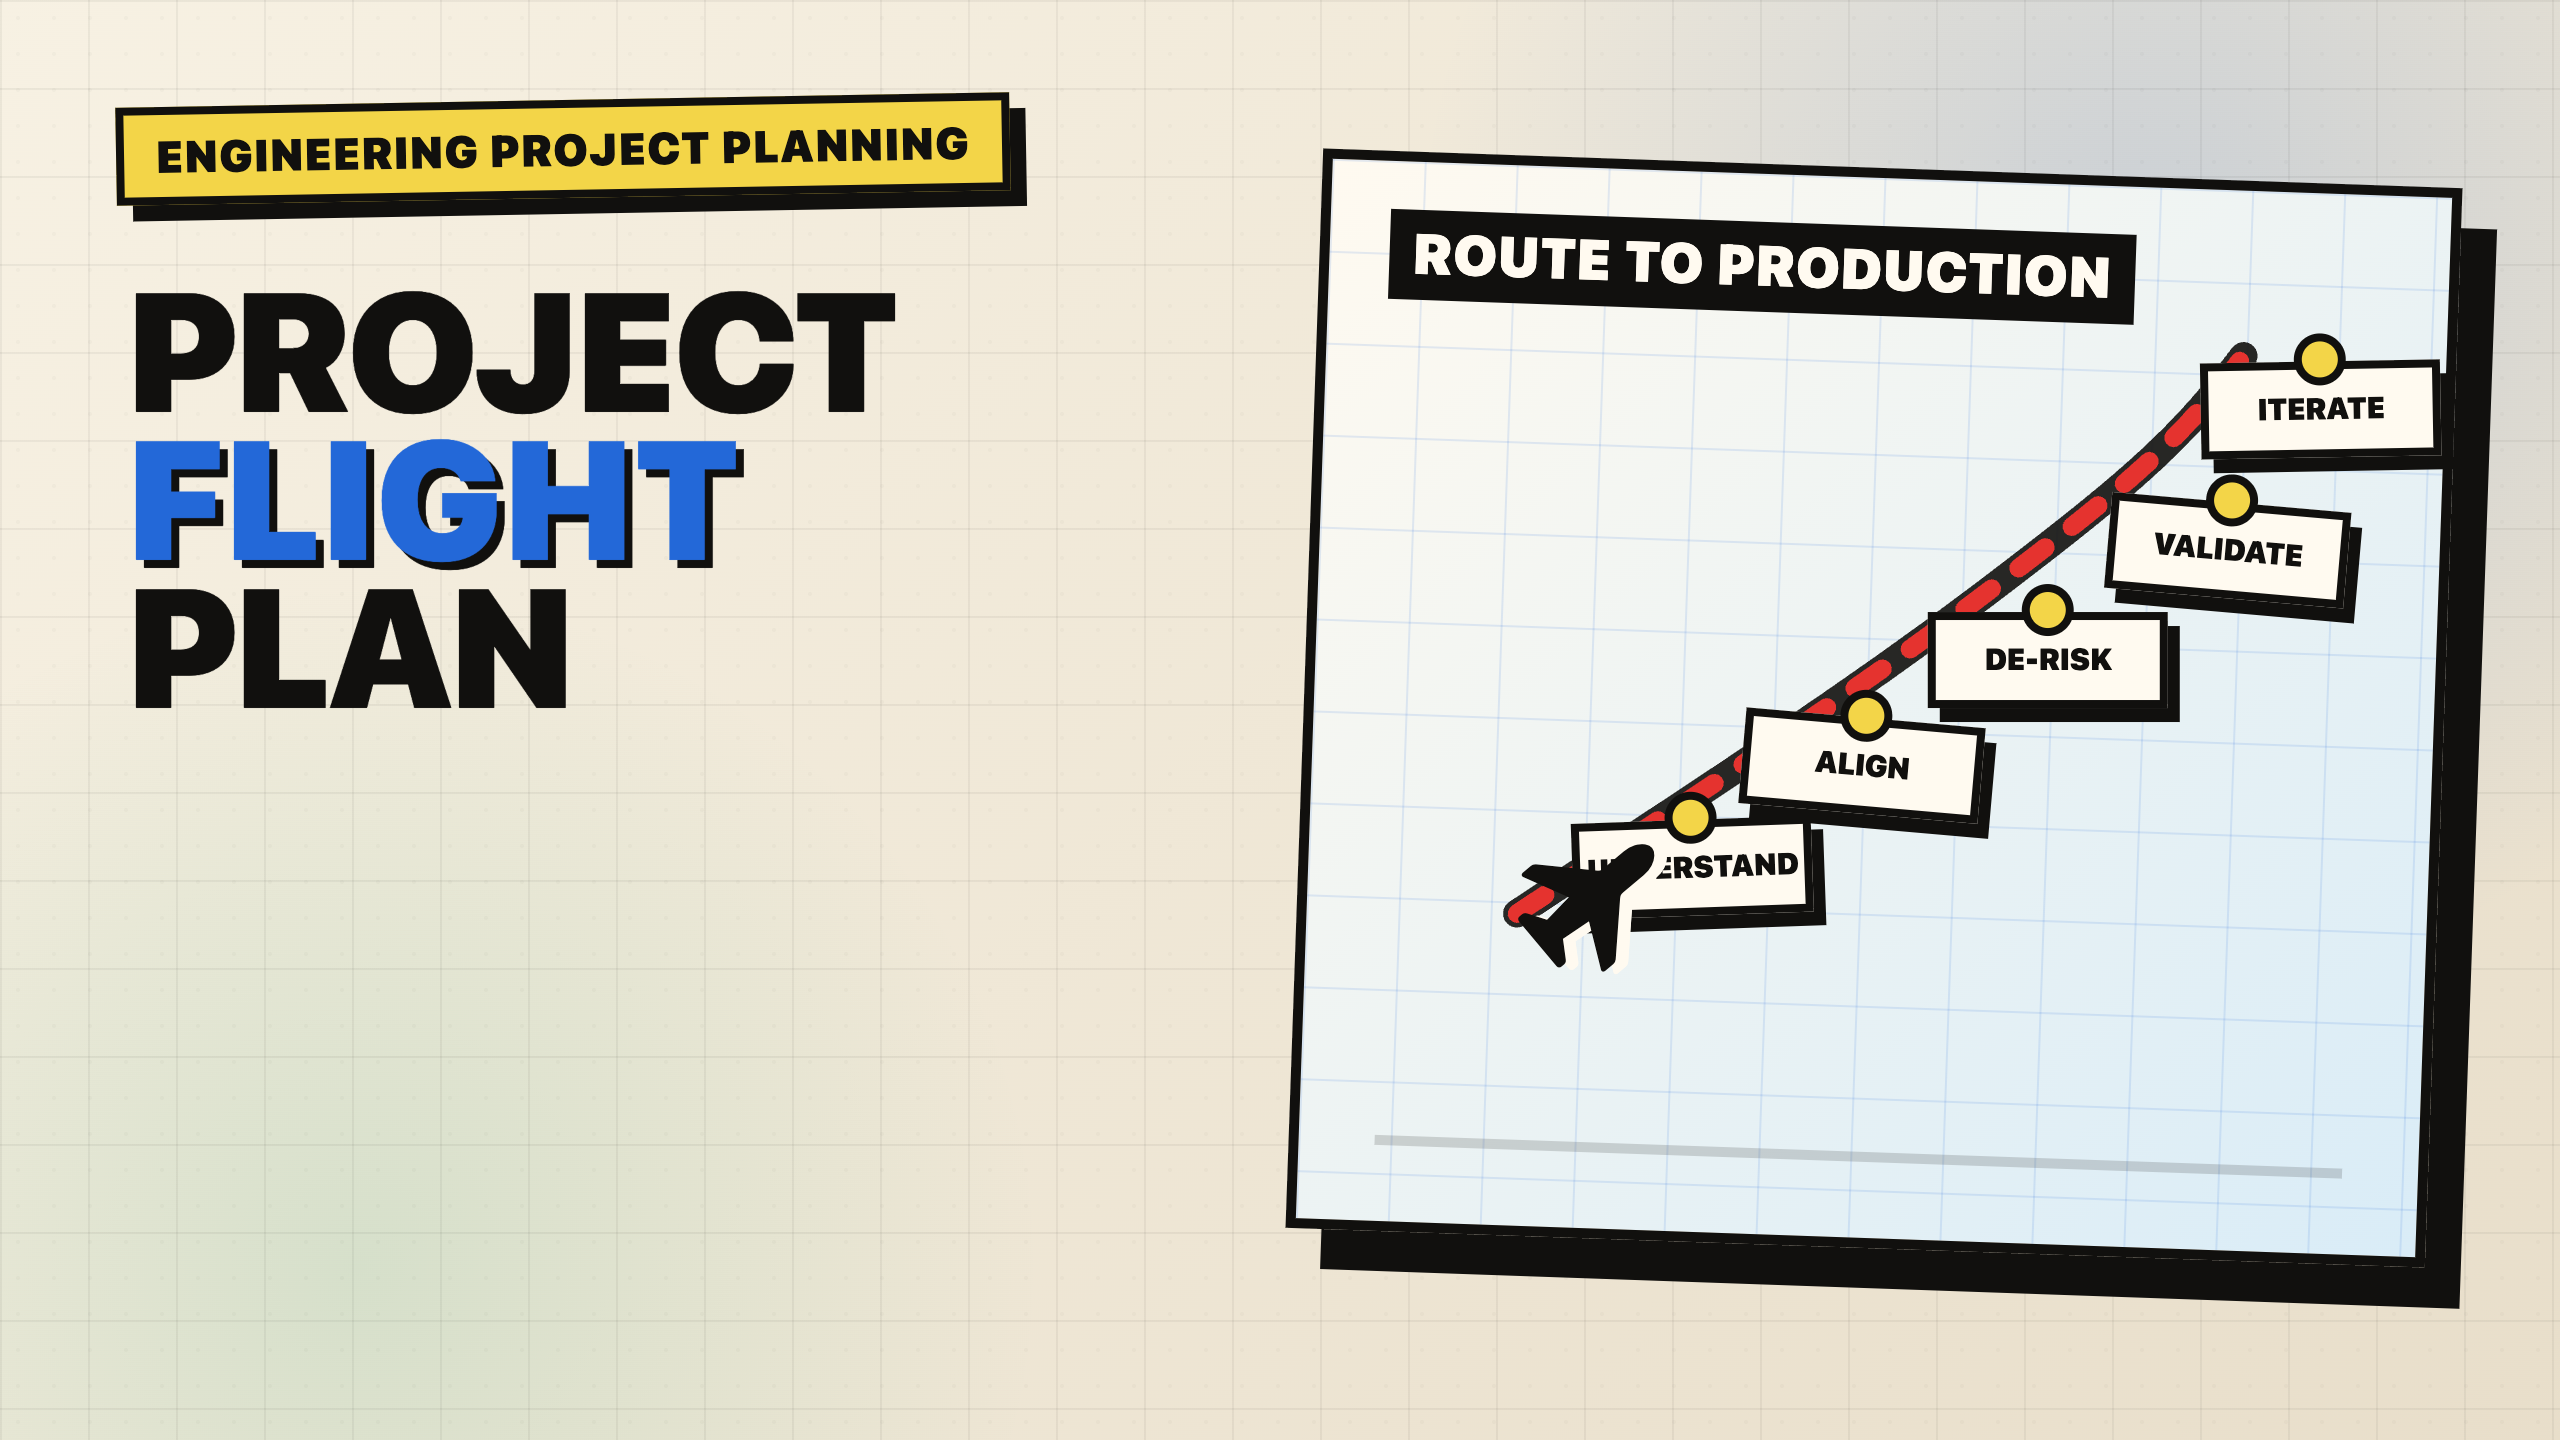
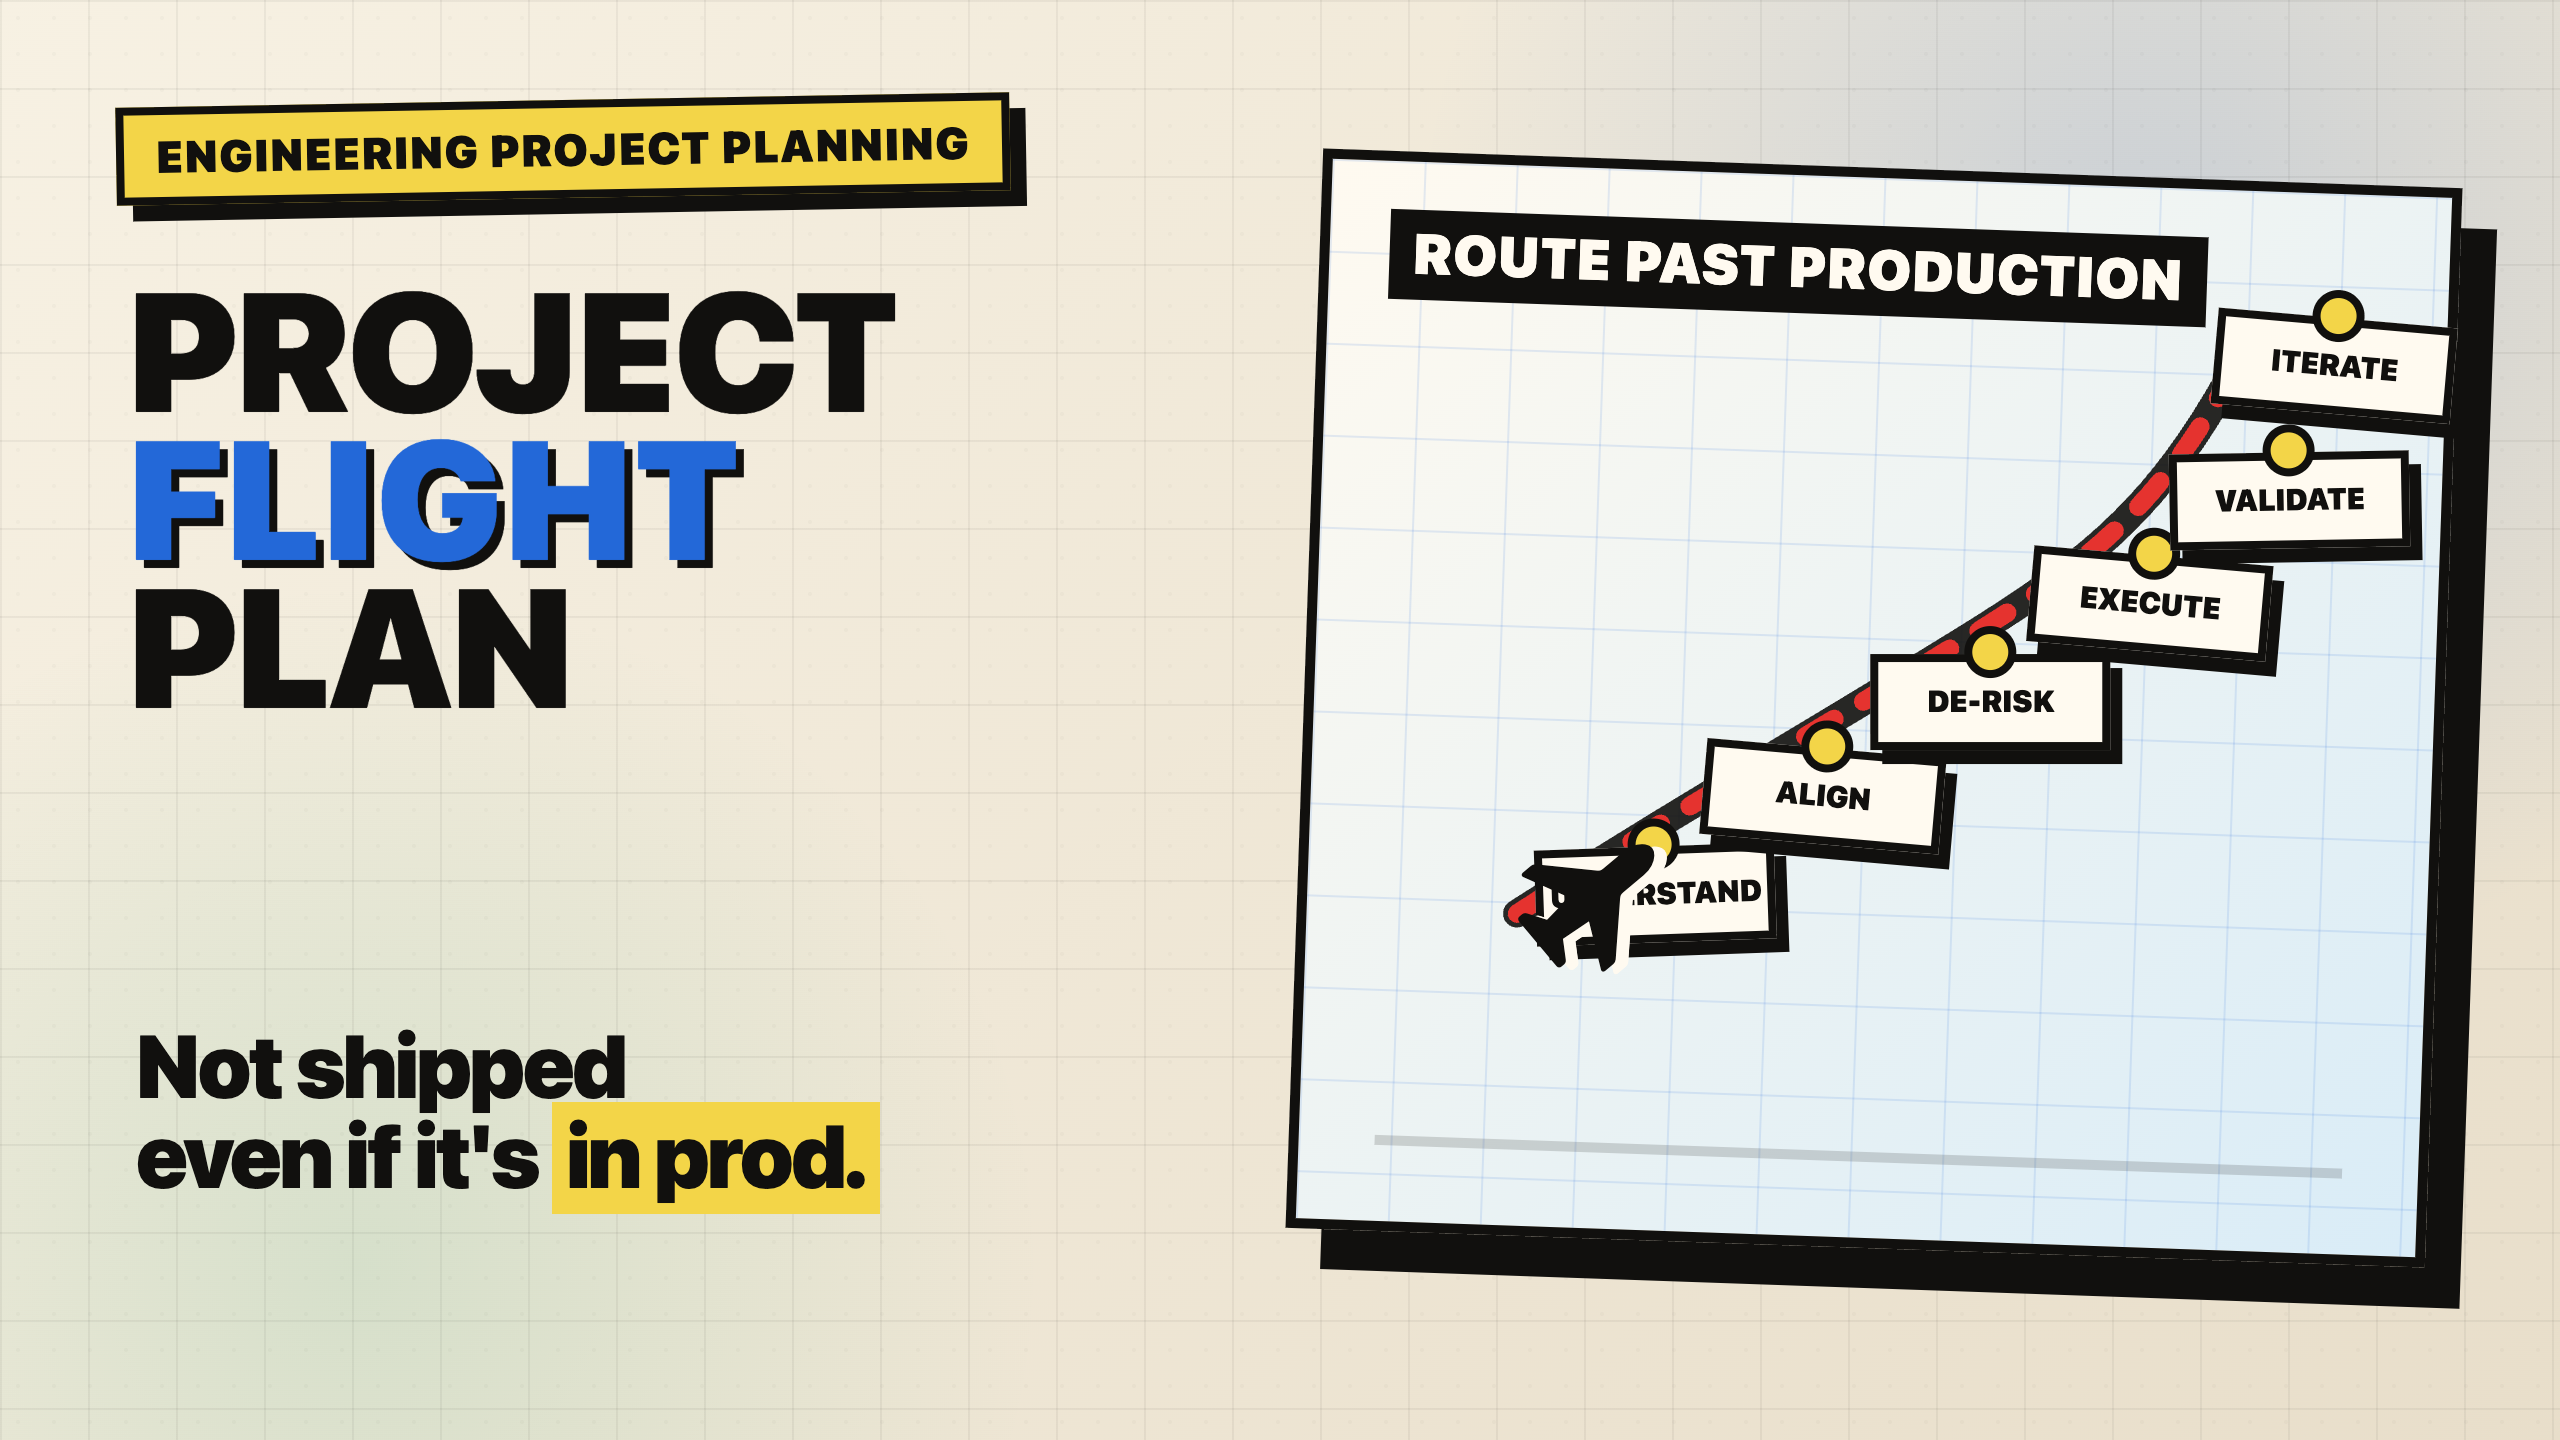
Update

Changed region(s): [[0.5938, 0.1562, 0.9688, 0.6875], [0.0312, 0.7188, 0.3438, 0.8438]]

diff --git a/writing/how-i-plan-an-engineering-project-end-to-end/index.html b/writing/how-i-plan-an-engineering-project-end-to-end/index.html
@@ -4,16 +4,16 @@
     <meta charset="utf-8" />
     <meta name="viewport" content="width=device-width, initial-scale=1" />
     <title>How I Plan an Engineering Project End to End | Eric Kennedy</title>
-    <meta name="description" content="How I plan engineering projects at a big tech company: understand, align, de-risk, deliver, validate, and iterate." />
+    <meta name="description" content="How I plan engineering projects at a big tech company: understand, align, de-risk, execute, validate, and iterate." />
     <meta property="og:title" content="How I Plan an Engineering Project End to End | Eric Kennedy" />
-    <meta property="og:description" content="How I plan engineering projects at a big tech company: understand, align, de-risk, deliver, validate, and iterate." />
+    <meta property="og:description" content="How I plan engineering projects at a big tech company: understand, align, de-risk, execute, validate, and iterate." />
     <meta property="og:image" content="https://ekeric13.github.io/assets/writing/post_18_engineering-project-end-to-end-thumbnail-2560x1440.png" />
     <meta property="og:image:secure_url" content="https://ekeric13.github.io/assets/writing/post_18_engineering-project-end-to-end-thumbnail-2560x1440.png" />
     <meta property="og:url" content="https://ekeric13.github.io/writing/how-i-plan-an-engineering-project-end-to-end/" />
     <meta property="og:type" content="article" />
     <meta name="twitter:card" content="summary_large_image" />
     <meta name="twitter:title" content="How I Plan an Engineering Project End to End | Eric Kennedy" />
-    <meta name="twitter:description" content="How I plan engineering projects at a big tech company: understand, align, de-risk, deliver, validate, and iterate." />
+    <meta name="twitter:description" content="How I plan engineering projects at a big tech company: understand, align, de-risk, execute, validate, and iterate." />
     <meta name="twitter:image" content="https://ekeric13.github.io/assets/writing/post_18_engineering-project-end-to-end-thumbnail-2560x1440.png" />
     <link rel="icon" href="/favicon.ico?v=6" sizes="any" />
     <link rel="icon" type="image/svg+xml" href="/assets/brand/ek-v3-mark.svg?v=6" />
@@ -32,33 +32,52 @@
         <div class="post-body">
           <p>Caveat: This is how I operate at a big tech company. This would look different at a startup and vastly different if I was just building by myself. At a large company there is definitely a coordination tax you need to pay, and that seeps into how you build.</p>
 
-          <p>I usually spend the first couple of days just building context. I use an LLM to explore the codebases this might touch, read the PRDs, and understand how the project fits into the existing ecosystem. From there, I start figuring out which services we can extend, what might need to be new, and start reaching out to the owners of the services that we might be extending.</p>
+          <h2>1. Build Context - Understand</h2>
 
-          <p>I will then write a couple of different design docs for the proposal. One high level for the business that focuses on the why, and one low level for the engineering team that focuses on the how.</p>
+          <p>I usually spend the first couple of days just building context. I use an LLM to explore the codebases this might touch, read the PRDs, and understand how the project fits into the existing ecosystem. The goal is to build a strong mental model of what is already there and how well it is working. From there, I start figuring out which services we can extend, what might need to be new, and reaching out to the owners of the services that we might be extending.</p>
 
-          <ul>
-            <li>For the <strong>high level doc</strong>, if I need management buy-in I might prototype a FE that shows what the final result might look/feel like.</li>
-            <li>For the <strong>low level doc</strong> I will generally include a few options on how to do something if that part of the feature is ambiguous or hard to reverse. And then do a spike on each of those options to find which one we want to commit to. This doc will be full of pseudo code snippets and links to the services+files this code will be.</li>
-          </ul>
+          <p>I will then write a couple of different design docs for the proposal. One high-level doc for the business that focuses on the why, and one low-level doc for the engineering team that focuses on the how.</p>
 
-          <p>For key architecture decisions, I usually evaluate the options across a few dimensions</p>
+          <h2>2. High-Level Doc - Align</h2>
+
+          <p>For the high-level doc, the audience is generally very senior engineers/PMs, directors, and VPs. They are either technical or used to be technical, but the common denominator is that they have a million things on their plate. You are communicating the what and the why, so the core idea needs to be memorable.</p>
+
+          <p>Historically, this might have been a detailed powerpoint or a concise Google Doc. What I have been doing lately is writing everything in markdown and then having an LLM convert it into an HTML/CSS/JS presentation. The front of each slide stays high level, but clicking it reveals a back side with underlying details.</p>
+
+          <p>Definitely have an LLM make the architecture and sequence diagrams. If something is confusing, make the diagram interactive. LLMs are really good at this. If I really need management buy-in, I would prototype a demo that shows what the final result could look/feel like and link to it.</p>
+
+          <h2>3. Low-Level Doc - De-Risk</h2>
+
+          <p>For the low-level doc, the audience is whoever will be doing the implementation. Historically this meant engineering teammates, but these days it means agents too. Since people can use LLMs to ask what something means, I generally keep this doc pretty technical. If part of a feature is ambiguous or hard to reverse, I will usually include a few options and do a spike on each one before deciding which direction to commit to. This doc will be full of pseudocode snippets and links to the services and files that the implementation will touch.</p>
+
+          <p>By the end of the document, there should be a very clear answer for how we will address each of the "whys" from the high-level doc, what metrics we will use to measure the success of the rollout, and how the project will be released in stages that build on top of each other.</p>
+
+          <p>For key architecture decisions, I usually evaluate the options across a few dimensions:</p>
 
           <ol>
-            <li><strong>Scalability:</strong> What happens at 10–100x the current load?</li>
+            <li><strong>Scalability:</strong> What happens at 10–100x the current load? What happens if 40 engineers are contributing instead of 4?</li>
             <li><strong>Reversibility:</strong> How painful will it be to change this decision later?</li>
-            <li><strong>Ownership:</strong> Who is actually going to own and operate this system?</li>
-            <li><strong>Ability to re-use existing interfaces:</strong> Can we reuse something that already exists, or are we introducing a new boundary?</li>
-            <li><strong>Cost:</strong> What does this cost us now, and what will it cost us as we scale?</li>
+            <li><strong>Ownership:</strong> Who is actually going to own and operate this system? Do they have the bandwidth and track record to maintain it well?</li>
+            <li><strong>Ability to reuse existing interfaces:</strong> Can we reuse something that already exists, or are we introducing a new boundary?</li>
+            <li><strong>Verifiability:</strong> How easy is it to prove that this system is working correctly? Can we test it, observe it, and quickly tell when something is wrong?</li>
+            <li><strong>Cost:</strong> What does this cost us now? What will it cost us as we scale?</li>
           </ol>
 
           <p>Some examples of this might be:</p>
 
           <ul>
             <li>"Should we spin up a starrocks instance or reuse our existing postgres instance?"</li>
-            <li>"Does this existing microservice meet our TPS and latency standards? Should we just build our own service for this functionality from the ground up?"</li>
+            <li>"Does this existing microservice meet our TPS and latency standards, or should we build our own service for this functionality?"</li>
+            <li>"Is there an MCP an agent can use to read data from this analytics warehouse?"</li>
           </ul>
 
-          <p>Generally I like to build towards a final solution and not just one shot it, even though it is tempting to do that with AI. I think you should still deliver something in stepping stones or else it might turn into a skunkworks project that is always 2 weeks from being done.</p>
+          <h2>4. Execute in Stages - Execute</h2>
+
+          <p>Generally I like to build towards a final solution and not just one shot it, even though it is tempting to do that with AI. I think you should still deliver something in stepping stones, or else it might turn into a skunkworks project that is always 2 weeks from being done.</p>
+
+          <p>There is some version of the project you can ship in 2 weeks, another in 2 months, and another in 6 months. Build towards those. Every two weeks you should be at a point where you have something worth demoing.</p>
+
+          <h2>5. Shipping Means More Than Releasing to Prod - Validate &amp; Iterate</h2>
 
           <p>Something isn't shipped when it is released to prod. It needs to have:</p>
 
@@ -67,9 +86,10 @@
             <li>Success metrics</li>
             <li>Observability and monitoring</li>
             <li>Analytics</li>
+            <li>Rollout, adoption, and awareness (from users and the org)</li>
           </ul>
 
-          <p>So my basic loop is: understand, align, de-risk, deliver, validate, iterate.</p>
+          <p>So my basic loop is: understand, align, de-risk, execute, validate, iterate.</p>
         </div>
       </article>
     </main>

diff --git a/index.html b/index.html
@@ -262,7 +262,7 @@
             <img src="assets/writing/thumbs/post_18_engineering-project-end-to-end-thumbnail-2560x1440.webp" alt="Engineering project planning essay artwork" loading="lazy" decoding="async" />
             <div>
               <h3>How I plan an engineering project end to end</h3>
-              <p>How I plan engineering projects at a big tech company: understand, align, de-risk, deliver, validate, and iterate.</p>
+              <p>How I plan engineering projects at a big tech company: understand, align, de-risk, execute, validate, and iterate.</p>
             </div>
           </a>
           <a class="essay essay--feature" href="writing/untouched-ai-output-feels-disrespectful/">
